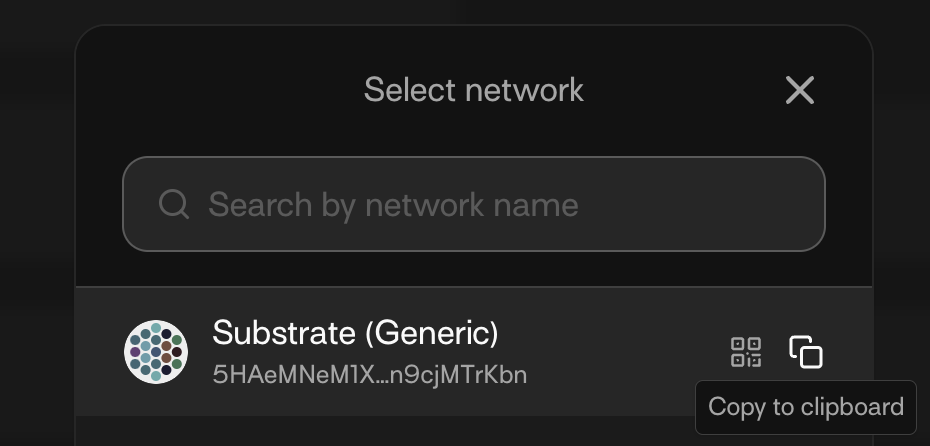
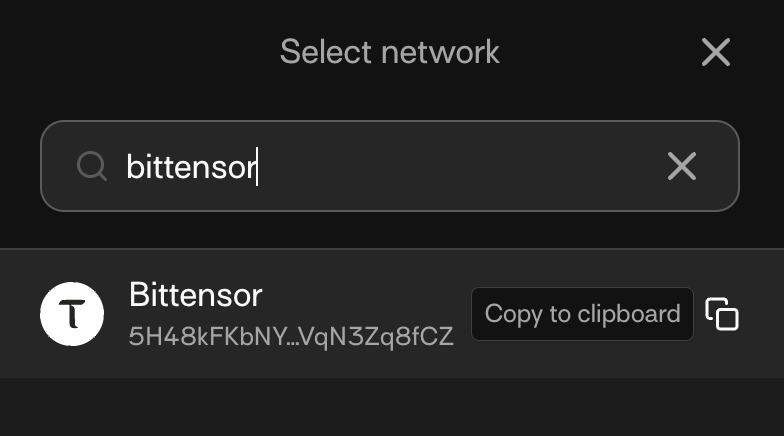
add bittensor network

diff --git a/docs/staking-and-delegation/using-ledger-hw-wallet.md b/docs/staking-and-delegation/using-ledger-hw-wallet.md
@@ -7,16 +7,16 @@ import useBaseUrl from '@docusaurus/useBaseUrl';
 
 # Using Ledger Hardware Wallet
 
-This guide describes how to set up your Ledger hardware wallet for managing your TAO on the Bittensor network. 
+This guide describes how to set up your Ledger hardware wallet for managing your TAO on the Bittensor network.
 
 ## Requirements
 
-Set up your Ledger hardware wallet as per Ledger instructions. 
+Set up your Ledger hardware wallet as per Ledger instructions.
 
 - [Ledger device (Nano S/S+/X, Flex, Stax)](https://www.ledger.com/).
 - [Ledger Live app](https://www.ledger.com/ledger-live).
 
-This guide assumes that you have a Ledger device and the Ledger Live app installed already. 
+This guide assumes that you have a Ledger device and the Ledger Live app installed already.
 
 ## Common Steps
 
@@ -25,12 +25,12 @@ This guide assumes that you have a Ledger device and the Ledger Live app install
 3. Install the **Polkadot (DOT)** app from Ledger Live.
 4. To manage your TAO from your Ledger hardware wallet, you must install a wallet app that supports TAO and also supports the Ledger hardware wallet. [Talisman](https://www.talisman.xyz/), [Nova Wallet](https://novawallet.io/), and [Subwallet](https://www.subwallet.app/) apps satisfy this condition. Install any of these wallet apps, and make sure you have configured these wallet apps to also use the Bittensor network. This is required for either transferring TAO using your Ledger, or finding the correct address to receive TAO on your Ledger device.
 
-:::danger Stop. Did you run the above steps? 
+:::danger Stop. Did you run the above steps?
 Proceed only after you successfully ran the above steps. The rest of this guide is described using Talisman wallet app.
 :::
 
-## Step 1. Connect Talisman app to Ledger device 
-  
+## Step 1. Connect Talisman app to Ledger device
+
   1. Connect Ledger hardware wallet device to your computer.
   2. Open Talisman wallet app and select **Add Account**.
   3. Select **Connect** and choose **Connect Ledger**.
@@ -47,7 +47,7 @@ Proceed only after you successfully ran the above steps. The rest of this guide 
       </center>
       <br />
 
-  4. Select **Polkadot**. Then in the **Choose Network** drop-down select  **Polkadot** as the network, and in the **Choose Ledger App** section select **Polkadot App**.
+  4. Select **Polkadot**. Then in the **Choose Network** drop-down select  **Bittensor** as the network, and in the **Choose Ledger App** section select **Polkadot App**.
 
       <center id="Talisman-1.4">
       <ThemedImage
@@ -78,9 +78,9 @@ Proceed only after you successfully ran the above steps. The rest of this guide 
       <br />
 
   5. When the above steps are complete, then you have successfully connected your Ledger hardware wallet device to the Polkadot app. Next, choose the Ledger hardware wallet addresses you would like to import to the Talisman wallet. Your Ledger hardware wallet device is now ready to be used with the Talisman Wallet app.
-  
+
       The below screenshot shows multiple addresses in the Ledger hardware wallet device.
-             
+
           <center id="Talisman-1.4a">
           <ThemedImage
           alt="Talisman-1.4a"
@@ -111,7 +111,7 @@ Proceed only after you successfully ran the above steps. The rest of this guide 
 
 ---
 
-## Step 2. Transfer TAO from Ledger hardware wallet 
+## Step 2. Transfer TAO from Ledger hardware wallet
 
 To transfer TAO from your connected Ledger hardware wallet, execute the following steps:
 
@@ -161,7 +161,7 @@ style={{width: 550}}
 </center>
 <br />
 
-5. Input the transaction amount and **Review** the transaction. In the below screenshot, an example transfer screen for sending 1.337 TAO from the connected Ledger hardware wallet device to a destination address that starts with `5EHVUN...` is shown. 
+5. Input the transaction amount and **Review** the transaction. In the below screenshot, an example transfer screen for sending 1.337 TAO from the connected Ledger hardware wallet device to a destination address that starts with `5EHVUN...` is shown.
 
 <center id="Talisman-1.4a">
 <ThemedImage
@@ -271,7 +271,7 @@ style={{width: 550}}
 
 ## Copying TAO address from Ledger device
 
-While using any crypto wallet, you might need to bring over your Ledger device's TAO address to this wallet. Follow the below steps. 
+While using any crypto wallet, you might need to bring over your Ledger device's TAO address to this wallet. Follow the below steps.
 
 1. From your Talisman Wallet app, drop-down on **All Accounts** and select the Ledger account.
 
@@ -301,7 +301,7 @@ style={{width: 900}}
 </center>
 <br />
 
-3. Click the **Copy to clipboard** button under **Substrate (Generic)**.
+3. Search for **Bittensor** network and click the **Copy to clipboard** button under **Bittensor**.
 
 <center id="Talisman-1.4a">
 <ThemedImage
@@ -315,6 +315,6 @@ style={{width: 900}}
 </center>
 <br />
 
-You have successfully copied the TAO address on the Ledger hardware wallet to the clipboard. You can then paste this TAO address into any crypto wallet you use. 
+You have successfully copied the TAO address on the Ledger hardware wallet to the clipboard. You can then paste this TAO address into any crypto wallet you use.
 
 ---
